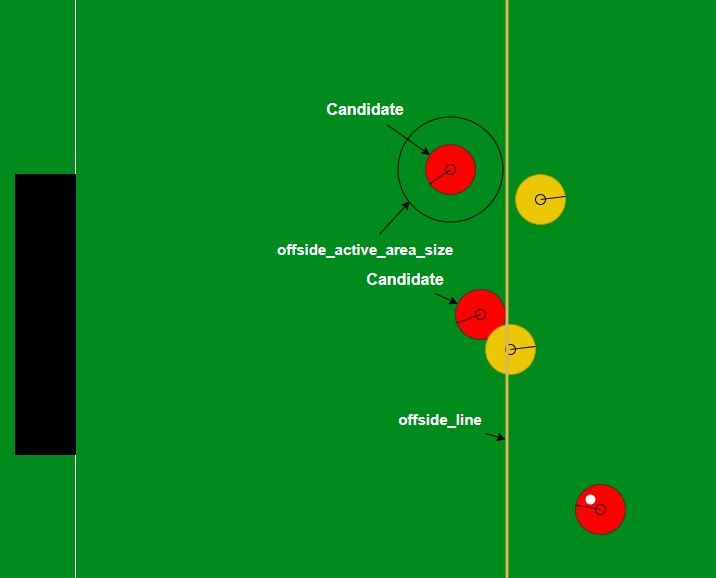
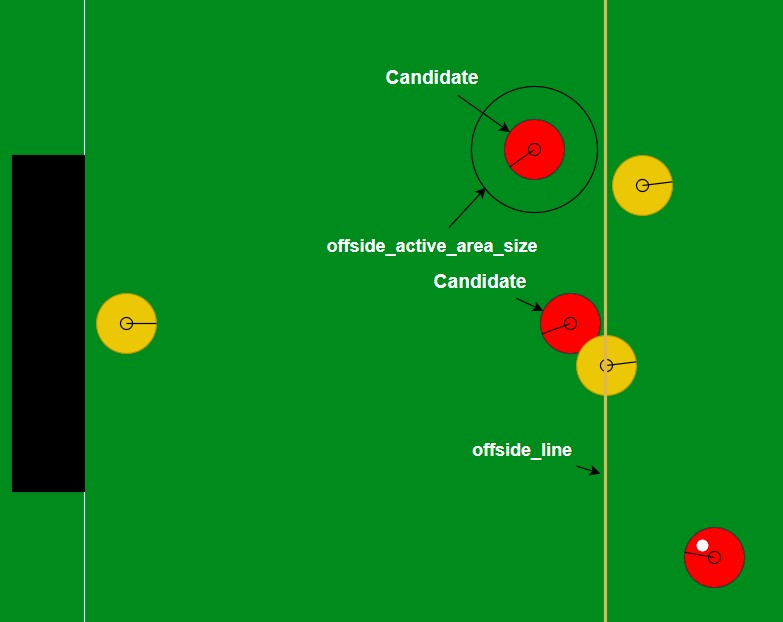
change the image, add intentional kick/tackle for offside_active_area_size  variable

Changed region(s): [[0.3687, 0.0, 0.9525, 1.0], [0.0, 0.0, 0.2151, 1.0]]

diff --git a/source/soccerserver.rst b/source/soccerserver.rst
@@ -1972,7 +1972,7 @@ This parameter determines whether the offside referee is enabled or disabled.
 
   server::offside_active_area_size = 2.5
 
-This parameter determines the radius of an area around a candidate pass reciever where if the ball enters it, the offside foul is called.
+This parameter determines the radius of an area around a candidate pass reciever where if the ball enters it and the candidate kicks or tackles it intentionally, the offside foul is called.
 
 ::
 
